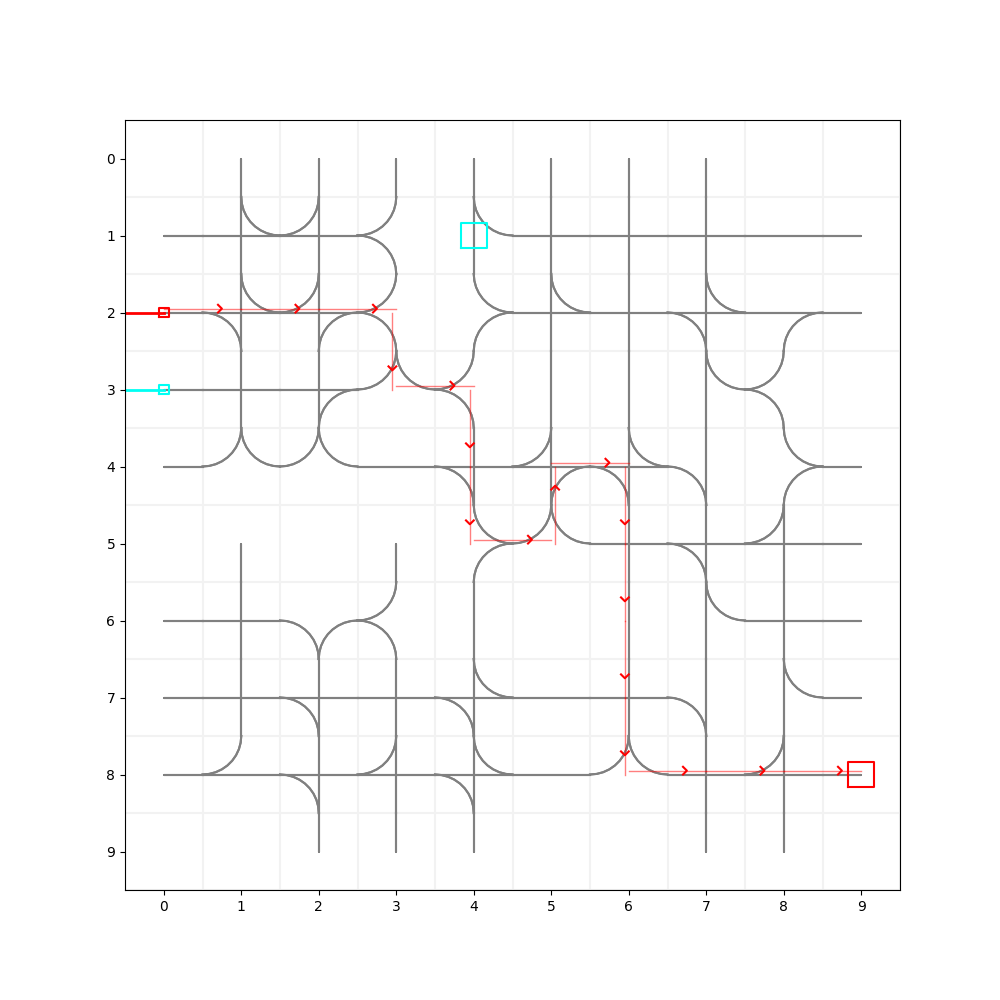
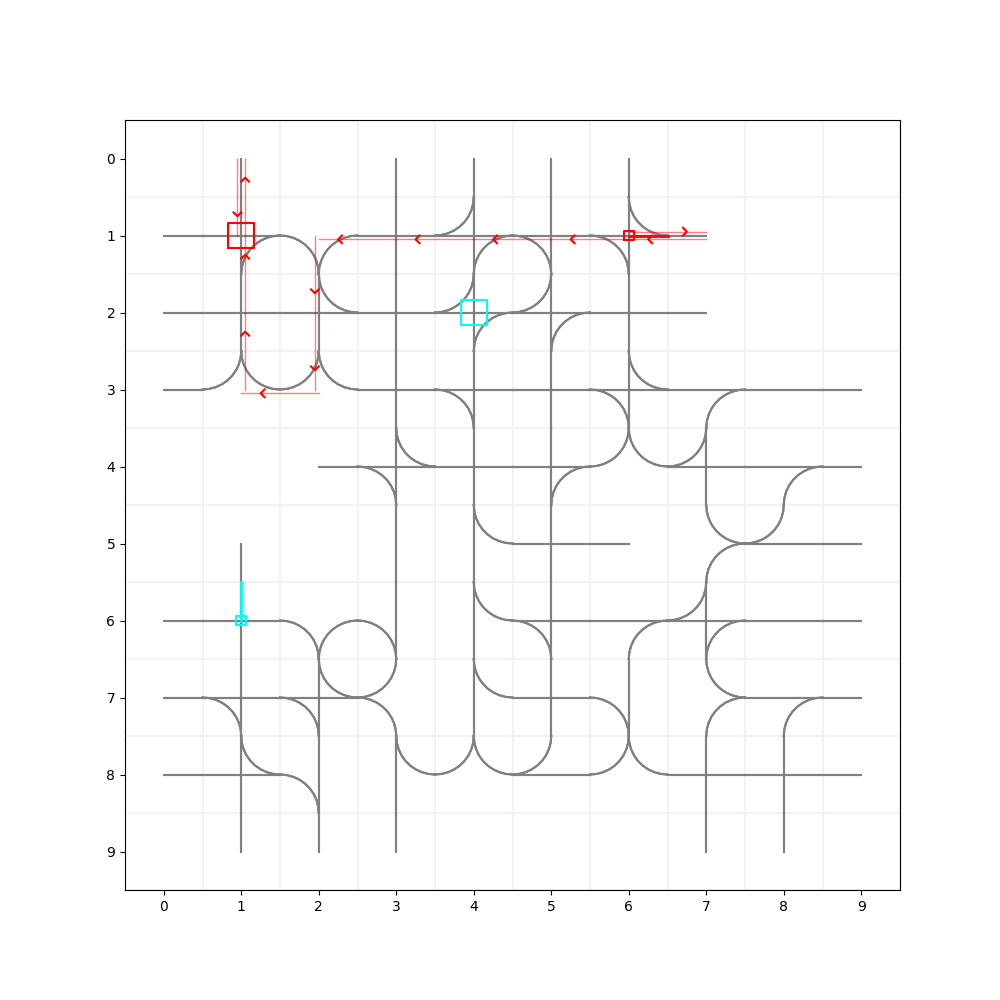
updated random_rail_generator to use only numpy.random not random updated test_rendertools to only set seed of numpy.random not plain random to confirm that only the numpy random sequence is being used.

diff --git a/flatland/envs/rail_env.py b/flatland/envs/rail_env.py
@@ -4,7 +4,6 @@ Definition of the RailEnv environment and related level-generation functions.
 Generator functions are functions that take width, height and num_resets as arguments and return
 a GridTransitionMap object.
 """
-import random
 import numpy as np
 
 from flatland.core.env import Environment
@@ -199,7 +198,8 @@ def random_rail_generator(cell_type_relative_proportion=[1.0]*8):
 
             num_insertions = 0
             while num_insertions < MAX_INSERTIONS and len(cells_to_fill) > 0:
-                cell = random.sample(cells_to_fill, 1)[0]
+                # cell = random.sample(cells_to_fill, 1)[0]
+                cell = cells_to_fill[np.random.choice(len(cells_to_fill), 1)[0]]
                 cells_to_fill.remove(cell)
                 row = cell[0]
                 col = cell[1]
@@ -494,10 +494,14 @@ class RailEnv(Environment):
                     if self.rail.get_transitions((r, c)) > 0:
                         valid_positions.append((r, c))
 
-            self.agents_position = random.sample(valid_positions,
-                                                 self.number_of_agents)
-            self.agents_target = random.sample(valid_positions,
-                                               self.number_of_agents)
+            # self.agents_position = random.sample(valid_positions,
+            #                                     self.number_of_agents)
+            self.agents_position = [
+                valid_positions[i] for i in
+                np.random.choice(len(valid_positions), self.number_of_agents)]
+            self.agents_target = [
+                valid_positions[i] for i in
+                np.random.choice(len(valid_positions), self.number_of_agents)]
 
             # agents_direction must be a direction for which a solution is
             # guaranteed.
@@ -525,8 +529,8 @@ class RailEnv(Environment):
                 if len(valid_starting_directions) == 0:
                     re_generate = True
                 else:
-                    self.agents_direction[i] = random.sample(
-                                               valid_starting_directions, 1)[0]
+                    self.agents_direction[i] = valid_starting_directions[
+                        np.random.choice(len(valid_starting_directions), 1)[0]]
 
         # Reset the state of the observation builder with the new environment
         self.obs_builder.reset()

diff --git a/tests/test_rendertools.py b/tests/test_rendertools.py
@@ -6,7 +6,6 @@ Tests for `flatland` package.
 
 from flatland.envs.rail_env import RailEnv, random_rail_generator
 import numpy as np
-import random
 import os
 
 import matplotlib.pyplot as plt
@@ -35,7 +34,7 @@ def checkFrozenImage(sFileImage):
 
 
 def test_render_env():
-    random.seed(100)
+    # random.seed(100)
     np.random.seed(100)
     oEnv = RailEnv(width=10, height=10, rail_generator=random_rail_generator(), number_of_agents=2)
     oEnv.reset()
